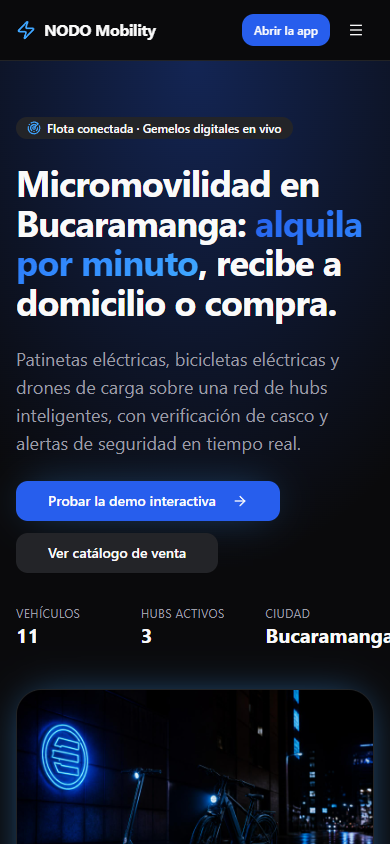
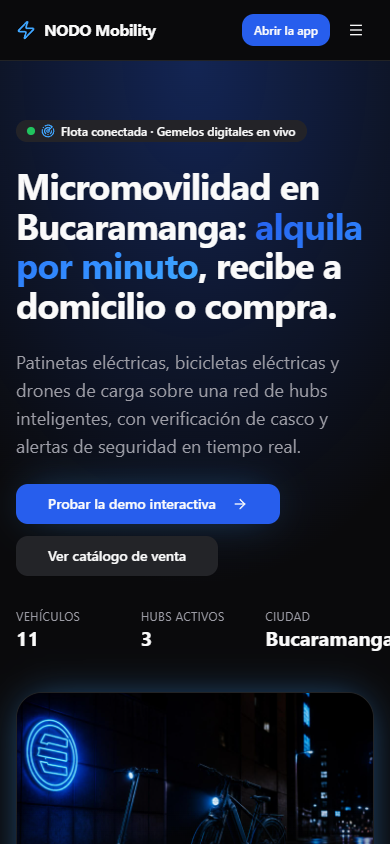
docs(interfaces): regenera capturas con la landing v2 y creditos de imagenes
Captura las 14 pantallas con la landing nueva (fotos reales, marquee,
animaciones). capturar.mjs soporta waitUntil por pantalla ('load' en la
landing, que es pesada y networkidle es fragil). README describe la landing
v2 y cita la fuente de las fotos (Wikimedia Commons, credito en codigo).

diff --git a/entregables/interfaces/README.md b/entregables/interfaces/README.md
@@ -9,8 +9,8 @@ Generado automáticamente por `_tools/capturar.mjs` desde `_tools/pantallas.json
 ![Landing (escritorio)](img/01-landing-escritorio.png)
 
 - **Ruta:** `/` · **Vista:** 1366×900
-- **Qué muestra:** Propuesta de valor, servicios, entrega a domicilio con domiciliario, tarifas reales en COP, seguridad IoT, catálogo, hubs, FAQ y cuentas de demostración.
-- **Para qué sirve:** Presenta el negocio completo (lo que los documentos prometen) y lleva al usuario a la app.
+- **Qué muestra:** Propuesta de valor, flota en fotos reales (marquee), servicios, entrega a domicilio, tarifas reales en COP, seguridad IoT, catálogo, hubs, FAQ y cuentas de demostración. Animaciones de scroll y micro-interacciones.
+- **Para qué sirve:** Presenta el negocio completo (lo que los documentos prometen), con fotos reales de la flota, y lleva al usuario a la app.
 - **Requisitos:** RF-01
 
 ## 2. Entrada en móvil
@@ -18,7 +18,7 @@ Generado automáticamente por `_tools/capturar.mjs` desde `_tools/pantallas.json
 ![Entrada en móvil](img/02-landing-movil.png)
 
 - **Ruta:** `/` · **Vista:** 390×844
-- **Qué muestra:** En pantalla pequeña la landing lleva directo al mapa.
+- **Qué muestra:** Propuesta de valor, flota en fotos reales (marquee), servicios, entrega a domicilio, tarifas reales en COP, seguridad IoT, catálogo, hubs, FAQ y cuentas de demostración. Animaciones de scroll y micro-interacciones.
 - **Para qué sirve:** Evita pasos al usuario móvil; la redirección es del lado del cliente para no dañar el SEO.
 - **Requisitos:** RF-01
 

diff --git a/README.md b/README.md
@@ -14,7 +14,7 @@ Este repositorio corresponde al **segundo avance**: portal web funcional con **b
 
 ### Landing page (`/`)
 
-Portal de negocio responsivo con SEO/GEO/AEO (SSR, JSON-LD, sitemap, llms.txt): servicios, tarifas reales leídas de la BD, sección de entrega a domicilio, seguridad IoT y CTA con cuentas de demostración. En móvil entra directo a la app de mapa (decisión en cliente, no daña el rastreo).
+Portal de negocio responsivo con SEO/GEO/AEO (SSR, JSON-LD, sitemap, llms.txt): **flota en fotos reales** (marquee), servicios, tarifas reales leídas de la BD, sección de entrega a domicilio, seguridad IoT y CTA con cuentas de demostración. Animaciones de scroll (parallax en el hero, reveals), contadores animados y micro-interacciones que respetan `prefers-reduced-motion`. En móvil entra directo a la app de mapa (decisión en cliente, no daña el rastreo). Las fotos de vehículos son de Wikimedia Commons con uso libre (créditos en `src/components/Landing.tsx`).
 
 ### App de usuario (`/app`)
 
